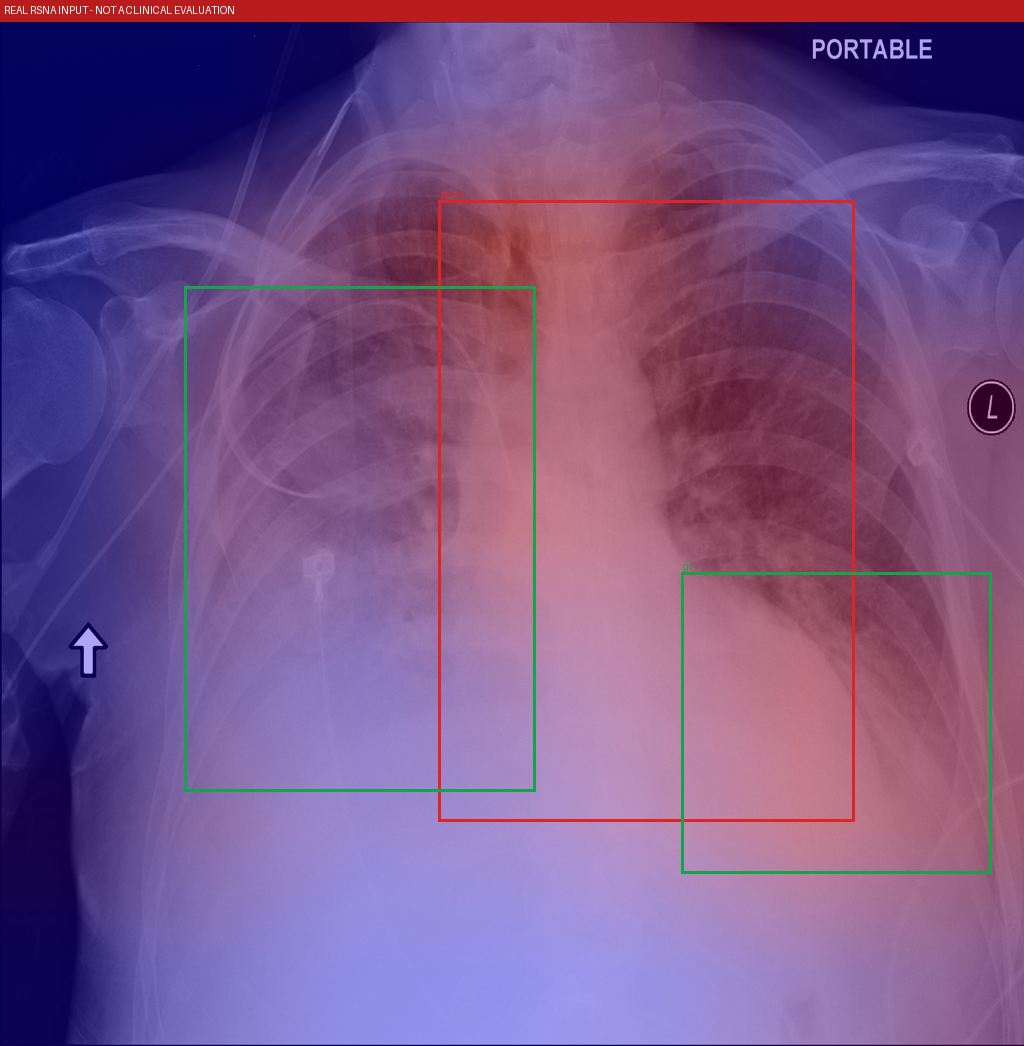
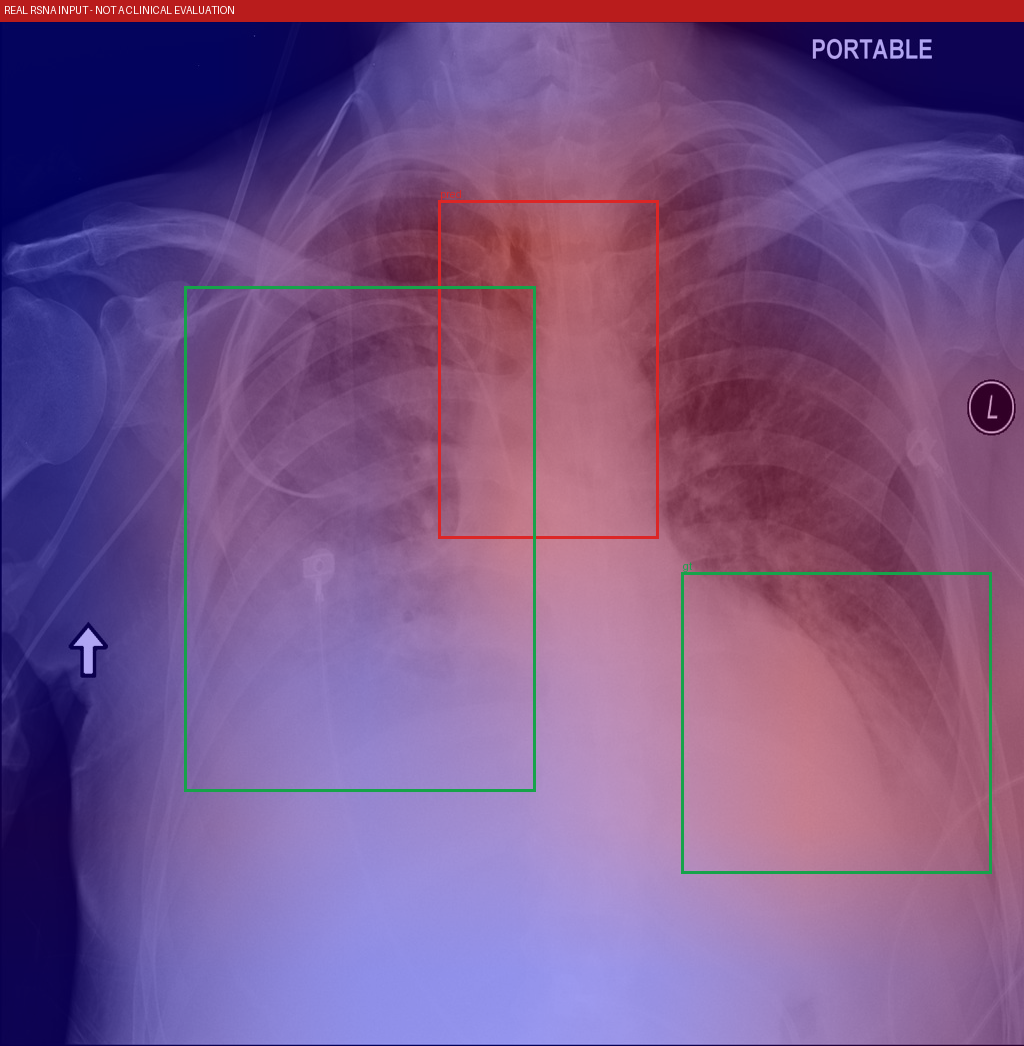
Regenerate with multi-box extraction, reframe test read as noise not regression
Corrects the flagship RSNA numbers to box_extraction=multi (was silently
single due to the CLI-default bug just fixed). Reframes the test-split
confirmatory read honestly: 3 of 4 localization metrics improved over
the val-sweep values at threshold 0.80 (mAP@0.5 0.0045->0.0091, IoU>=0.5
0.1193->0.1607, mean IoU 0.2993->0.3139); only pointing-game dropped
(0.5138->0.4286), and at n=112 that gap is ~1.8 SE, consistent with
sampling noise rather than a systematic regression. Also makes explicit
that the pointing-game flatness-across-thresholds claim is a validation-
split finding only, not tested by the single test-split read.

Changed region(s): [[0.8125, 0.7648, 0.8438, 0.7954], [0.8125, 0.1836, 0.8438, 0.2141], [0.625, 0.4895, 0.6562, 0.5201]]

diff --git a/report/sections/06_results.tex b/report/sections/06_results.tex
@@ -13,7 +13,7 @@ Component & Command & Status & Artifact & Result & Interpretation \\
 NIH training & \texttt{make train} & \textbf{real completed} & \texttt{checkpoints/baseline\_nih\_best.pt} local & best epoch 4; val macro AUROC 0.8246 & real classifier checkpoint, git-ignored binary \\
 NIH evaluation & \texttt{make eval} & \textbf{real completed} & \texttt{results/baseline\_nih\_eval.json} & macro AUROC 0.8037; macro AUPRC 0.2685 & real NIH evaluation, not clinical validation \\
 Calibration & \texttt{make calibrate} & \textbf{real completed} & \texttt{results/calibration\_report.json} & test ECE 0.3144 to 0.3113 & small ECE improvement \\
-RSNA grounding & \texttt{make eval-grounding-rsna} & \textbf{real completed} & \texttt{results/grounding\_rsna\_eval.json} & test split, \texttt{cam\_threshold=0.80} (val-selected): pneumonia AUROC 0.8277; pointing 0.4286; IoU 0.3059; mAP@0.5 0.0077 & pneumonia/lung-opacity only; threshold chosen on val, not re-tuned against this test read \\
+RSNA grounding & \texttt{make eval-grounding-rsna} & \textbf{real completed} & \texttt{results/grounding\_rsna\_eval.json} & test split, \texttt{cam\_threshold=0.80}, \texttt{box\_extraction=multi} (both val-selected): pneumonia AUROC 0.8277; pointing 0.4286; IoU 0.3139; mAP@0.5 0.0091 & pneumonia/lung-opacity only; threshold and extraction chosen on val, not re-tuned against this test read \\
 API health & TestClient & \textbf{real completed} & runtime check & HTTP 200; VLM disabled & local real-checkpoint inference when artifacts exist; smoke fallback otherwise \\
 Gradio & \texttt{build\_demo()} & \textbf{smoke-tested shell} & runtime check & Blocks object created & local demo shell only \\
 Rule-based VQA & \texttt{make eval-vlm-zero-shot} & \textbf{real baseline completed} & \texttt{results/vlm\_zero\_shot\_eval.json} & exact match 0.6091; template adherence 1.0 & synthetic template-generated QA set, not real clinical questions; fixed-template only; no free-text VLM claim \\
@@ -78,11 +78,22 @@ between a loose point-based hit rate and a strict IoU-based one, is consistent w
 benchmarked divergence between saliency-metric families reported for chest X-ray
 interpretation \citep{saporta2022benchmarking}.
 
-Threshold selection used only the validation split; \texttt{cam\_threshold = 0.80} was
-then read once, as a confirmatory check, on the held-out RSNA test split (summary table
-above): mAP@0.5 0.0077, mean IoU 0.3059, pointing-game 0.4286. The test pointing-game
-value is lower than the constant 0.5138 seen throughout the validation sweep; consistent
-with not tuning on test, \texttt{cam\_threshold} was not revisited in response.
+The flatness claim above — pointing-game constant across all seven thresholds — is a
+\textbf{validation-split} finding. Threshold and extraction-method selection used only
+that split; \texttt{cam\_threshold = 0.80} with \texttt{box\_extraction = multi} was
+then read once, as a single confirmatory point, on the held-out RSNA test split (summary
+table above): mAP@0.5 0.0091, mean IoU 0.3139, IoU $\geq$ 0.5 hit rate 0.1607, and
+pointing-game 0.4286. This single test point does not itself test flatness across
+thresholds; only the validation sweep does that. Three of the four localization metrics
+are \emph{higher} on this test read than the corresponding validation values at
+threshold 0.80 (mAP@0.5 0.0045 $\to$ 0.0091; IoU $\geq$ 0.5 hit rate 0.1193 $\to$
+0.1607; mean IoU 0.2993 $\to$ 0.3139); only pointing-game moved the other way (0.5138
+$\to$ 0.4286). At $n = 112$ gated positive cases, a proportion near 0.5 has a standard
+error of approximately $\sqrt{0.5 \times 0.5 / 112} \approx 0.047$, so the 8.5-point gap
+is about $1.8$ standard errors — consistent with sampling noise on a different image
+subset rather than a systematic regression. Consistent with not tuning on test,
+\texttt{cam\_threshold} and \texttt{box\_extraction} were not revisited in response to
+this result.
 
 \subsection{Artifact Audit}
 

diff --git a/README.md b/README.md
@@ -38,7 +38,7 @@ MEDGUARD-CXR is a safety-aware chest X-ray engineering prototype focused on mult
 | NIH classifier training | `make train` | `checkpoints/baseline_nih_best.pt`, `results/baseline_nih_train.json` | completed | best epoch 4, validation macro AUROC 0.8246 | Real DenseNet121 checkpoint trained on NIH ChestX-ray14 in Colab CUDA. |
 | NIH evaluation | `make eval` | `results/baseline_nih_eval.json` | completed | macro AUROC 0.8037, macro AUPRC 0.2685, macro sensitivity at 90% specificity 0.4708, n=25,596 | Real NIH evaluation artifact. This is not clinical validation. |
 | Calibration | `make calibrate` | `results/calibration_report.json`, `results/reliability_diagram.png`, `calibrators/nih_temp_scaling.pkl` | completed | test macro ECE 0.3144 before, 0.3113 after temperature scaling | Calibration report generated on real NIH artifacts; improvement is small. |
-| RSNA grounding | `make eval-grounding-rsna` | `results/grounding_rsna_eval.json`, `results/overlays/rsna/rsna_grid.png` | completed | RSNA test split, cam_threshold=0.80 (val-selected): pneumonia AUROC 0.8277, AUPRC 0.5655, pointing-game 0.4286, mean IoU 0.3059, mAP@0.5 0.0077 | Pneumonia-specific RSNA Lung Opacity validation only; no broad localization claim. Pointing-game is lower on this test read than the 0.5138 seen during val threshold selection; threshold was not re-tuned in response. |
+| RSNA grounding | `make eval-grounding-rsna` | `results/grounding_rsna_eval.json`, `results/overlays/rsna/rsna_grid.png` | completed | RSNA test split, cam_threshold=0.80, box_extraction=multi (both val-selected): pneumonia AUROC 0.8277, AUPRC 0.5655, pointing-game 0.4286, mean IoU 0.3139, IoU>=0.5 0.1607, mAP@0.5 0.0091 | Pneumonia-specific RSNA Lung Opacity validation only; no broad localization claim. 3 of 4 localization metrics improved over the val-sweep values at this threshold; only pointing-game is lower (0.5138 to 0.4286), a difference of ~1.8 SE at n=112 and consistent with sampling noise. Threshold was not re-tuned in response. |
 | API health | TestClient `/health` | runtime check | completed | HTTP 200, VLM disabled | Phase 4A app loads; local checkpoint inference is available when artifacts exist, with smoke fallback on missing checkpoints. |
 | Gradio build | `build_demo()` smoke check | runtime smoke check | completed | `Blocks` object created | Demo shell builds locally; it is not a validated clinical app. |
 | Rule-based VQA | tests and `make eval-vlm-zero-shot` | `results/vlm_zero_shot_eval.json` | completed as rule-based baseline | exact match 0.6091, template adherence 1.0, hallucination rate 0.0 | Synthetic template-generated QA set, not real clinical questions; rule-based only, no free-text VLM claim. |
@@ -79,8 +79,8 @@ MEDGUARD-CXR is a safety-aware chest X-ray engineering prototype focused on mult
 | Rare finding detection | Macro AUPRC | P1 | > 0.30 | 0.2685 on NIH evaluation |
 | Calibration | ECE lower is better | P2 | < 0.10 target | test macro ECE 0.3144 before, 0.3113 after temperature scaling |
 | Selective prediction | Acc @ 20% abstention | P2 | > baseline | not yet summarized as a public score |
-| Localization | Pointing game acc | P3 | > 0.50 | 0.4286 on RSNA test split, confidence-gated examples (target not met; 0.5138 was the val-sweep value used for threshold selection, not re-tuned against this test result) |
-| Cross-dataset localization | NIH Pneumonia -> RSNA Lung Opacity pointing/IoU | P3 | report only | RSNA test split: pneumonia AUROC 0.8277, AUPRC 0.5655, mean IoU 0.3059 |
+| Localization | Pointing game acc | P3 | > 0.50 | 0.4286 on RSNA test split, confidence-gated examples (target not met; 0.5138 was the val-sweep value used for threshold selection; the ~8.5pp gap is ~1.8 SE at n=112, not re-tuned against this test result) |
+| Cross-dataset localization | NIH Pneumonia -> RSNA Lung Opacity pointing/IoU | P3 | report only | RSNA test split: pneumonia AUROC 0.8277, AUPRC 0.5655, mean IoU 0.3139 |
 | VQA | Exact match | P4 | > 0.60 | rule-based baseline 0.6091; VLM metrics pending |
 | OOD rejection | Cat photo rejected | P4 | pass | smoke-tested in local tests/API shell |
 

diff --git a/docs/gradcam_visual_audit.md b/docs/gradcam_visual_audit.md
@@ -36,20 +36,35 @@ Localization:
 | Metric | Value |
 |---|---|
 | Pointing game | 0.4286 (n = 112 gated positive CAMs) |
-| mean IoU | 0.3059 |
-| IoU ≥ 0.5 hit rate | 0.1429 |
-| mAP@0.5 | 0.0077 |
+| mean IoU | 0.3139 |
+| IoU ≥ 0.5 hit rate | 0.1607 |
+| mAP@0.5 | 0.0091 |
 
 Pipeline counts: 2673 dataset records, 1024 evaluated, 388 ground-truth boxes,
 112 CAMs generated, 845 samples skipped by the 0.7 confidence gate, 125 positive cases
 with no CAM because of the gate or an empty CAM. CAM boxes are extracted per connected
-component (`cam_to_boxes`) from Grad-CAM support thresholded at 0.8; the classifier
-never predicts boxes directly.
+component (`cam_to_boxes`, `box_extraction=multi`) from Grad-CAM support thresholded at
+0.8; the classifier never predicts boxes directly. (An earlier version of this
+regeneration ran with the CLI's `box_extraction` default of `single` rather than
+`multi`, because `box_extraction` was not wired into `configs/grounding_rsna.yaml` the
+way `cam_threshold` and `split.eval` are. That has been fixed —
+`gradcam.box_extraction: multi` is now in the config — and this table is the corrected
+`multi` run. The two differ only where CAM support is disconnected: mAP@0.5 moved
+0.0077 to 0.0091 and mean IoU moved 0.3059 to 0.3139, both small, consistent with the
+95%-single-component measurement below.)
 
-Pointing-game is markedly lower on this test read (0.4286) than the constant 0.5138
-seen across every threshold in the val sweep. Per the project's test-set-tuning
-discipline, this is reported as-is; `cam_threshold` is not re-tuned in response, and no
-second sweep was run to chase the test number back up.
+Three of the four localization metrics above are *higher* than the corresponding
+validation-split values at this threshold (mAP@0.5 0.0045 to 0.0091; IoU ≥ 0.5 hit rate
+0.1193 to 0.1607; mean IoU 0.2993 to 0.3139). Only pointing-game is lower on test
+(0.5138 to 0.4286). At n = 112, a proportion near 0.5 has standard error
+$\sqrt{0.5 \times 0.5 / 112} \approx 0.047$, so the 8.5-point gap is about 1.8 standard
+errors — read as sampling noise on a different image subset, not a systematic drop.
+**This test point is a single confirmatory read, not a re-run of the flatness check**:
+the "pointing-game is constant across thresholds" claim below is a validation-split
+finding only, established by the seven-point sweep, and this one test point does not
+test that claim. Per the project's test-set-tuning discipline, `cam_threshold` and
+`box_extraction` are not re-tuned in response to this test result, and no second sweep
+was run to chase the pointing-game number back up.
 
 ## Scope of this review
 
@@ -194,7 +209,13 @@ CAM overlay. The per-sample PNGs are correct; only the grid is affected. Not yet
 
 - ~~Report the validation-selected `cam_threshold = 0.80` once on the test split.~~
   Done: see "Quantitative anchors" above. Test pointing-game (0.4286) came in below the
-  val value (0.5138); the threshold was not revisited in response.
+  val value (0.5138), but 3 of 4 localization metrics improved and the pointing-game gap
+  is ~1.8 SE at n=112; the threshold was not revisited in response either way.
+- ~~Wire `box_extraction` through `configs/grounding_rsna.yaml` like `cam_threshold` and
+  `split.eval`.~~ Done: it was CLI-only with a hardcoded `single` default, so the first
+  test-split regeneration silently ran `single` instead of matching the sweep's `multi`.
+  Fixed in `scripts/evaluate_grounding.py` / `configs/grounding_rsna.yaml`; the numbers
+  above are the corrected `multi` run.
 - Fix the grid compositing so `rsna_grid.png` shows the heatmap.
 - Compare Grad-CAM++ on the same samples; its higher-order weighting targets the
   multi-instance case, though with 95% single-component support the headroom looks small.

diff --git a/CLAUDE.md b/CLAUDE.md
@@ -47,7 +47,7 @@ results.
 | NIH DenseNet121 classifier | ran | macro AUROC 0.8037, macro AUPRC 0.2685, n=25596 |
 | Per-class temperature scaling | ran | ECE 0.3144 → 0.3113 (negligible improvement) |
 | Isotonic / Platt calibration | implemented, not run in headline | — |
-| RSNA cross-dataset grounding | ran | test split, cam_threshold=0.80 (val-selected): pointing-game 0.4286, mIoU 0.3059, mAP@0.5 = 0.0077 |
+| RSNA cross-dataset grounding | ran | test split, cam_threshold=0.80, box_extraction=multi (val-selected): pointing-game 0.4286, mIoU 0.3139, mAP@0.5 = 0.0091 |
 | Rule-based VQA | ran | exact match 0.6091, hallucination rate 0.0 |
 | VLM (Qwen2.5-VL-3B) QLoRA fine-tune | code only, `enabled: false` | epochs_completed = 0 |
 | VLM zero-shot eval | blocked (`bitsandbytes` / GPU) | never executed |
@@ -55,14 +55,22 @@ results.
 The near-zero mAP alongside a pointing-game score well above the strict-IoU hit rate is
 **an expected finding, not a bug** — it is the known strict-IoU vs. loose-hit-rate gap
 for CAM-style saliency, and it should be framed as consistent with the literature
-(Saporta et al., *Nature Machine Intelligence* 4:867–878, 2022). A 7-point
-`cam_threshold` sweep on the RSNA **val** split (`results/sweep/`) found pointing-game
-accuracy constant at 0.5138 across every threshold while mAP@0.5 improved 10.8× (0.00042
-to 0.00454 at threshold 0.80) — a clean scale/position decomposition: thresholding fixes
-box scale but cannot move the CAM peak. The one-time confirmatory read on the **test**
-split at the selected threshold 0.80 gives pointing-game 0.4286 (lower than the val
-value; not re-tuned in response, by design) and mAP@0.5 0.0077 — see
-`docs/gradcam_visual_audit.md` for the full sweep and ablation.
+(Saporta et al., *Nature Machine Intelligence* 4:867–878, 2022). **This flatness claim
+is a val-split-only finding:** a 7-point `cam_threshold` sweep on the RSNA
+**validation** split (`results/sweep/`, `box_extraction=multi`) found pointing-game
+accuracy constant at 0.5138 across every threshold tested while mAP@0.5 improved 10.8×
+(0.00042 to 0.00454 at threshold 0.80) — a clean scale/position decomposition:
+thresholding fixes box scale but cannot move the CAM peak. The one-time confirmatory
+read on the held-out **test** split, at the val-selected threshold 0.80 and
+`box_extraction=multi`, is a single point and does not itself test flatness across
+thresholds. It gives mAP@0.5 0.0091, mean IoU 0.3139, IoU≥0.5 hit rate 0.1607 — all
+higher than the val values at this threshold — and pointing-game 0.4286, lower than the
+val value of 0.5138. At n=112 gated positive cases, that 8.5-point pointing-game gap is
+~1.8 standard errors (SE≈0.047 for a proportion near 0.5): three of four localization
+metrics improved on test and only pointing-game moved the other way, which reads as
+sampling noise rather than a systematic regression. `cam_threshold` was not revisited in
+response, by design — see `docs/gradcam_visual_audit.md` for the full sweep and
+ablation.
 
 The flat ECE is a **negative result and should be reported as one**, with the structural
 explanation: temperature scaling is rank-preserving (a single positive scalar divisor

diff --git a/model_card.md b/model_card.md
@@ -55,16 +55,17 @@ Current grounding is limited to RSNA Pneumonia Detection Challenge 2018:
 
 - NIH class: `Pneumonia`.
 - RSNA target: `Lung Opacity`.
-- Split: RSNA test (held out; `cam_threshold=0.80` was selected on the RSNA val split via a 7-point sweep, then read once on test).
+- Split: RSNA test (held out; `cam_threshold=0.80` and `box_extraction=multi` were selected on the RSNA val split via a 7-point sweep, then read once on test).
 - Evaluated records: 1024.
 - Generated Grad-CAM overlays: 112.
 - Pneumonia AUROC: 0.8277.
 - Pneumonia AUPRC: 0.5655.
 - Pointing-game accuracy: 0.4286.
-- Mean IoU: 0.3059.
-- mAP@0.5: 0.0077.
+- Mean IoU: 0.3139.
+- IoU $\geq$ 0.5 hit rate: 0.1607.
+- mAP@0.5: 0.0091.
 
-These are research evaluation metrics for a pneumonia-specific cross-dataset check. Grad-CAM overlays are weak engineering artifacts and are not clinical evidence. Pointing-game accuracy on this test read (0.4286) is lower than the val-sweep value (0.5138) reported during threshold selection; per project policy the threshold is not re-tuned in response to this test result (see `docs/gradcam_visual_audit.md`).
+These are research evaluation metrics for a pneumonia-specific cross-dataset check. Grad-CAM overlays are weak engineering artifacts and are not clinical evidence. Of the four localization metrics, three improved from the val-sweep values at this threshold (mAP@0.5 0.0045→0.0091, IoU≥0.5 hit rate 0.1193→0.1607, mean IoU 0.2993→0.3139); only pointing-game accuracy is lower on test (0.5138→0.4286). At n=112 gated positive cases, that 8.5-point difference is about 1.8 standard errors (SE≈0.047 for a proportion near 0.5), consistent with sampling noise rather than a systematic drop. Per project policy the threshold is not re-tuned in response to this test result (see `docs/gradcam_visual_audit.md`).
 
 ## VQA, API, and Demo Status
 
